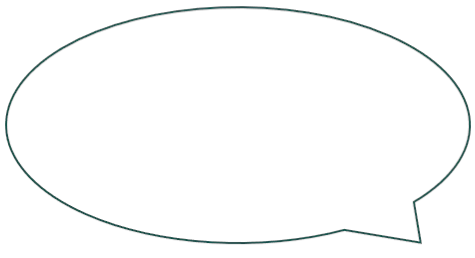
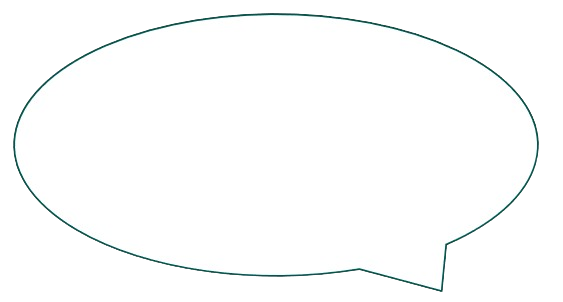
home css js jsp image修正

Changed region(s): [[0.0, 0.0, 1.0, 0.9612], [0.7958, 0.7752, 0.8253, 0.8062]]

diff --git a/source/src/main/webapp/css/home.css b/source/src/main/webapp/css/home.css
@@ -34,6 +34,14 @@ main {
   border: 1px solid #005751;
 }
 
+.haikei_kabe {
+  position: absolute;
+  width: 100%;
+  height:70%;
+  background-color: #e7dda957;
+  z-index: 100;
+}
+
 /* キャラクターの吹き出し */
 .home_comment img {
   position: absolute;
@@ -41,6 +49,7 @@ main {
   width: 500px;
   max-width: 500px;
   height: 193px;
+  z-index: 500;
 }
 
 /* キャラクターのコメント */
@@ -54,10 +63,11 @@ main {
   max-height: 134px;
   display: flex;
   align-items: center;
-  font-size: 31px;
+  font-size: 28px;
   text-align: center;
   overflow-wrap: break-word;
   white-space: normal;
+  z-index: 500;
 }
 
 /* キャラクター画像 */
@@ -69,6 +79,7 @@ main {
   width: 300px;
   max-width: 90vw;
   height: auto;
+  z-index: 500;
 }
 
 /* アイテムメニューの枠 */
@@ -135,6 +146,15 @@ main {
     height: 500px;
     margin: 24px auto;
   }
+  
+  .haikei_kabe {
+    position: absolute;
+    width: 100%;
+    height: 73%;
+    background-color: #e7dda957;
+    z-index: 100;
+    top: 0px;
+  }
 
   .home_comment {
     position: relative;
@@ -143,24 +163,29 @@ main {
   }
 
   .home_comment img {
-    top: 65px;
-    left: 6px;
-    width: 230px;
-    max-width: 230px;
+    top: 78px;
+    left: 40px;
+    width: 270px;
+    max-width: 270px;
     height: 194px;
+    background-color: transparent;
   }
 
   .home_comment div {
-    top: 92px;
-    left: 39px;
+    top: 114px;
+    left: 71px;
     font-size: 20px;
-    max-width: 200px;
+    max-width: 210px;
+    width: 210px;
+    max-height: 120px;
+    height: 100px;
+        
   }
 
   .character img {
     display: block;
     top: 262px;
-    left: 176px;
+    left: 173px;
     width: 200px;
     max-width: 200px;
     height: auto;
@@ -172,4 +197,5 @@ main {
     transform: none;
     overflow: hidden;
   }
+ 
 }

diff --git a/source/src/main/webapp/js/home.js b/source/src/main/webapp/js/home.js
@@ -36,3 +36,22 @@ window.addEventListener("DOMContentLoaded", function () {
     modal.style.display = "none";
   });
 });
+
+// PC/スマホ画像切り替え
+window.addEventListener("DOMContentLoaded", function () {
+    function updatehukidashiImage() {
+        const img = document.querySelector('.home_comment img');
+        if (!img) return;
+
+        const isMobile = window.innerWidth <= 400;
+
+        if (isMobile) {
+            img.src = isMobile ? hukidashi_SP : hukidashi_PC;
+        }
+    }
+
+    window.addEventListener("resize", () => {
+        // resizeで毎回正しく反映されるように、少し遅延させる
+        setTimeout(updatehukidashiImage, 100);
+    });
+});
